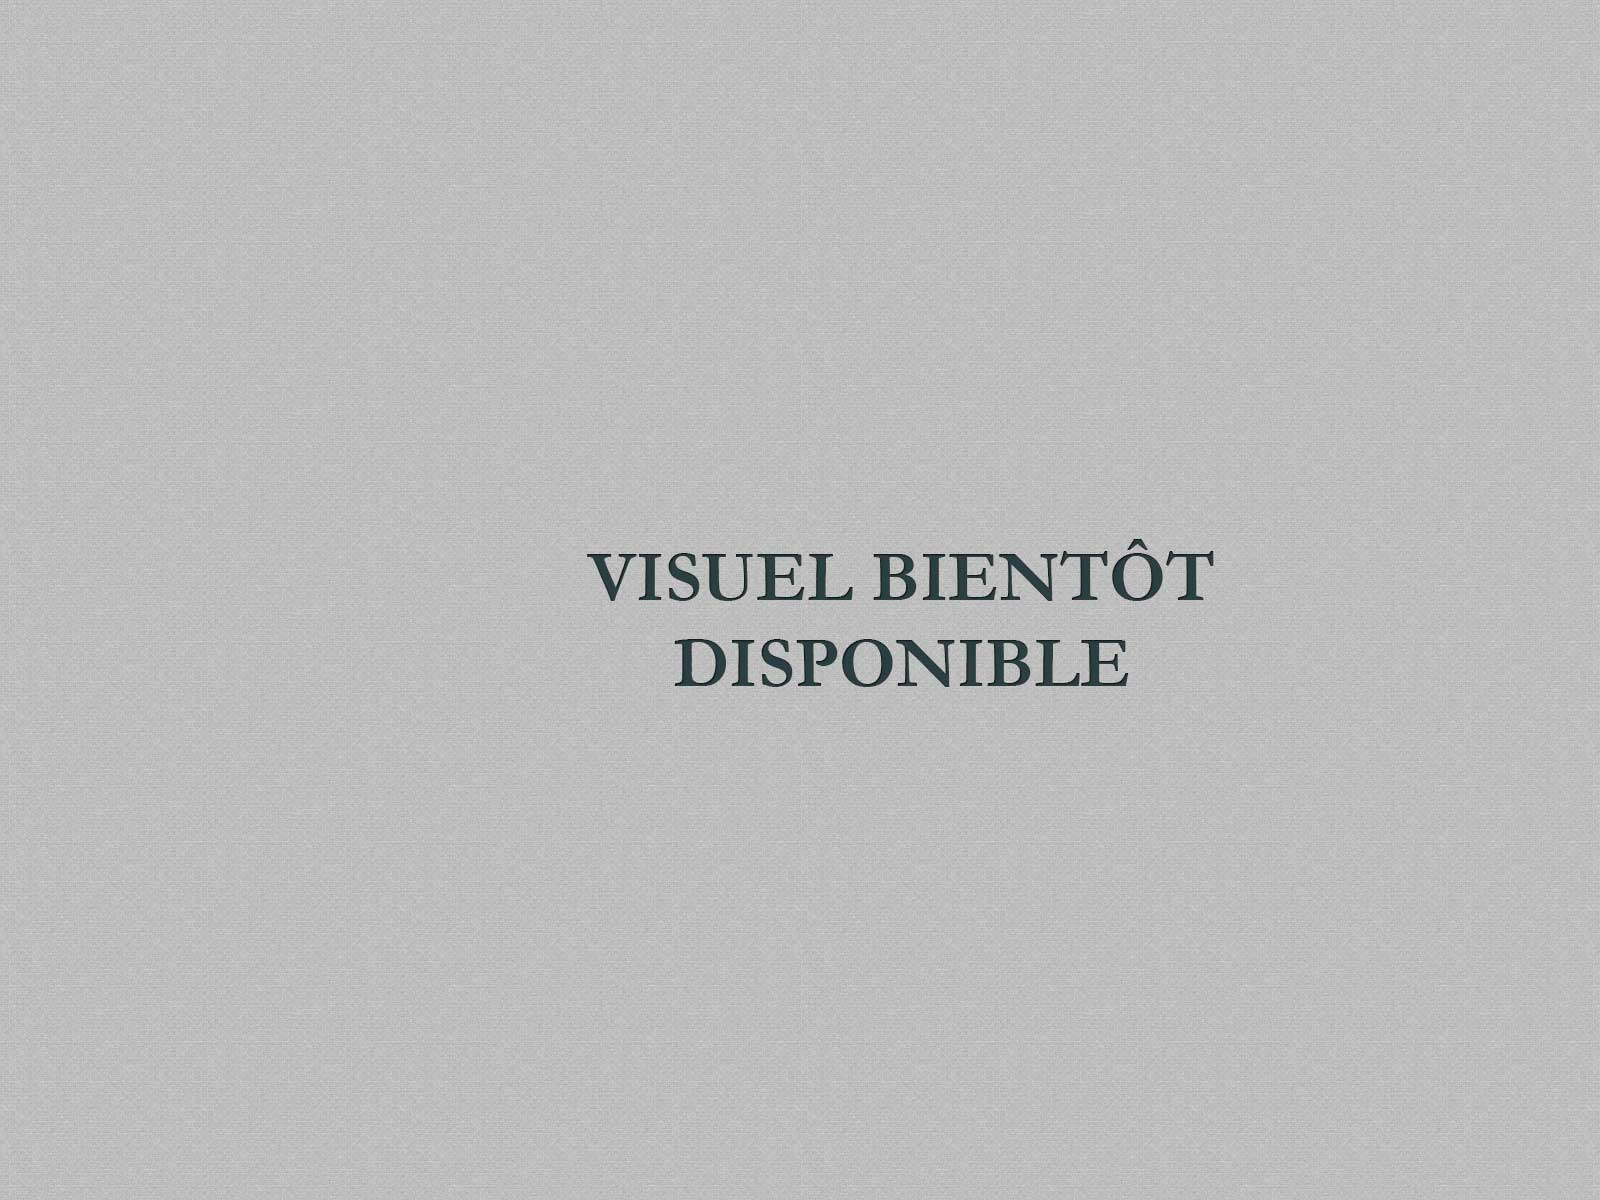
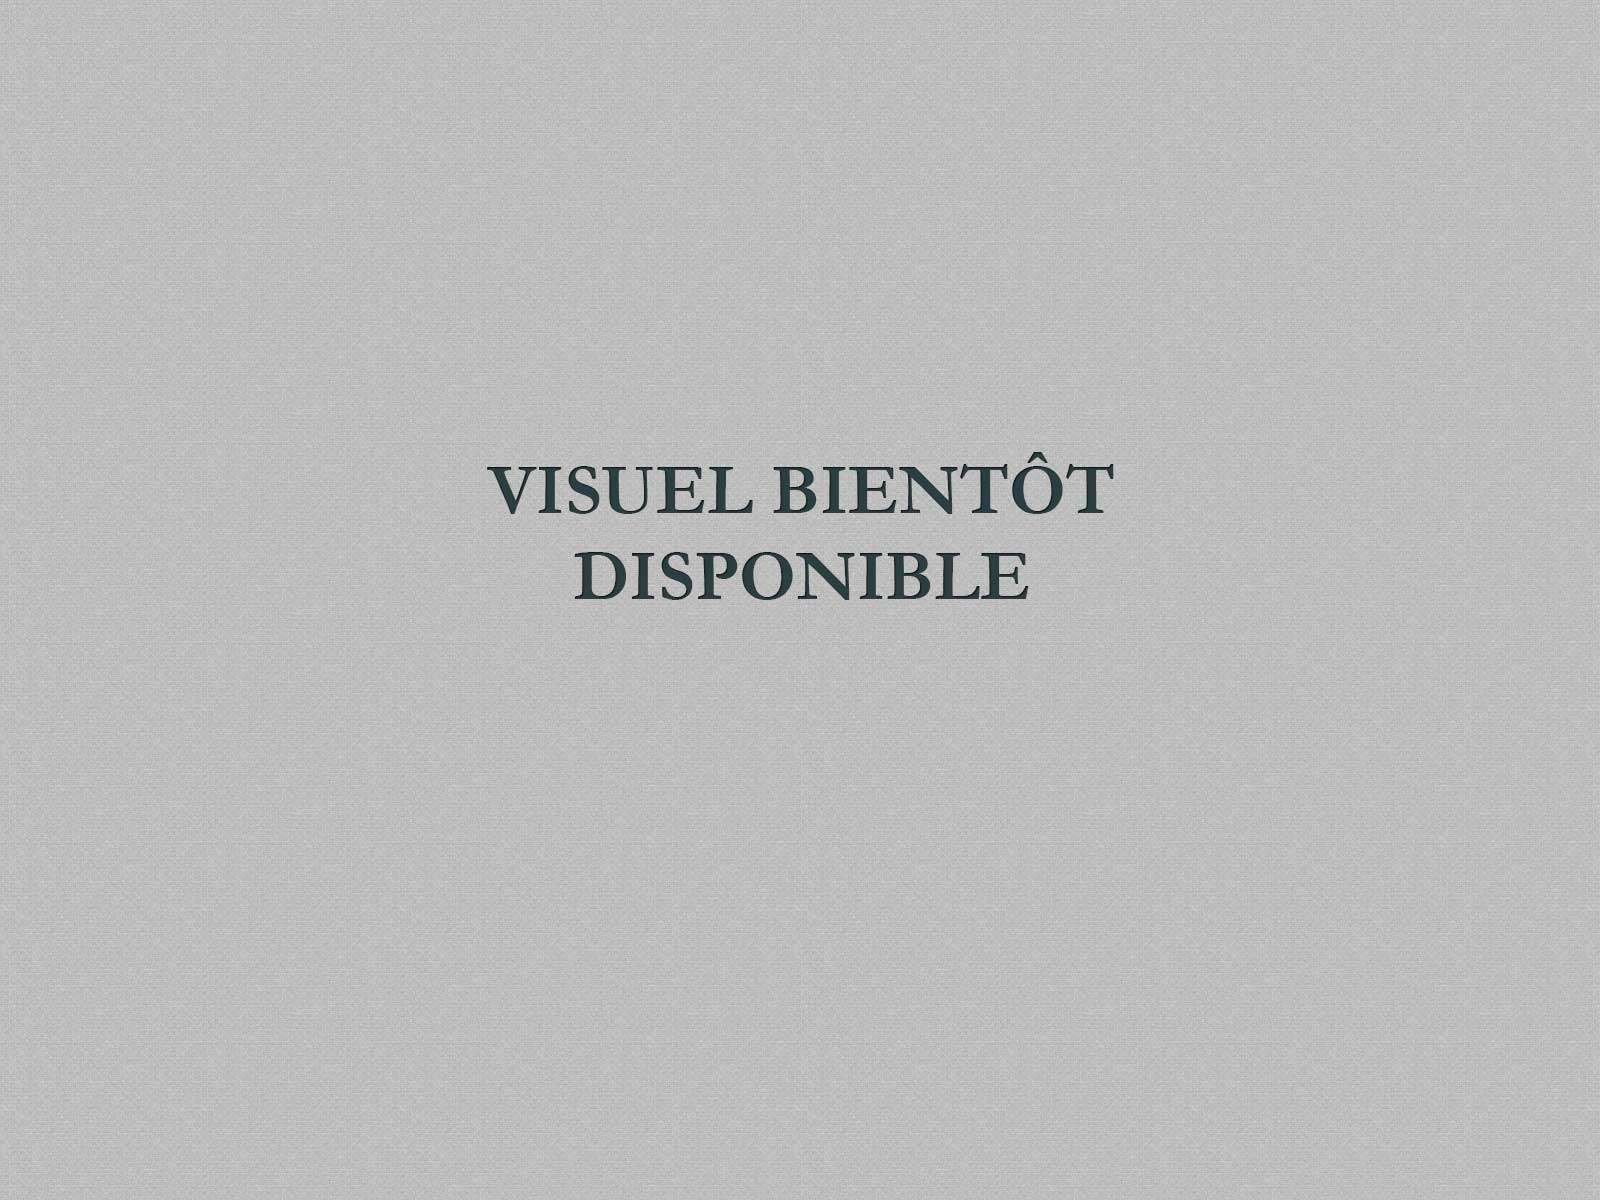
Optimizations
* added non available image placeholder
* added analytics
* switched to minified js
* more compact ribbon

Changed region(s): [[0.3438, 0.4317, 0.75, 0.5858], [0.3125, 0.37, 0.6875, 0.4317]]

diff --git a/js/nav.min.js b/js/nav.min.js
@@ -1,0 +1,1 @@
+!function(){function e(){p={nav:document.querySelector("#nav").offsetTop,exposition:document.querySelector("#exposition").offsetTop,partenariat:document.querySelector("#partenariat").offsetTop,objets:document.querySelector(".objets").offsetTop,infospratiques:document.querySelector("#infospratiques").offsetTop}}function o(){function e(e){if(!e.classList.contains("current")){var o=document.querySelector(".current");o&&o.classList.remove("current")}e.classList.add("current")}var o=void 0!==window.pageYOffset?window.pageYOffset:(document.documentElement||document.body.parentNode||document.body).scrollTop;o<=p.nav?document.body.classList.contains("fix-menu")&&(document.body.classList.remove("fix-menu"),s.header.style.top=0,document.body.style.paddingTop=0):document.body.classList.contains("fix-menu")||(document.body.style.paddingTop=s.header.clientHeight+"px",s.header.style.top=-p.nav+"px",document.body.classList.add("fix-menu")),o>p.infospratiques-window.innerHeight/3?e(s.links[3]):o>p.objets-window.innerHeight/3?e(s.links[2]):o>p.partenariat-window.innerHeight/3?e(s.links[1]):e(s.links[0])}function t(){s.objets.style.height=window.innerHeight+"px",e(),n(),i()}function n(){var e=window.location.hash,o=!1;if(e){e=e.slice(1),e=e.toLowerCase();for(var t=0;t<a.length;t++)a[t].nom.toLowerCase()==e&&(r(t),o=!0)}o||r(0)}function r(e){var o=a[e];s.background.src=o.imgPath,s.ribbon.nom.textContent?(s.ribbon.nom.textContent=o.prenom+" "+o.nom,s.ribbon.type.textContent=o.type):(s.ribbon.nom.innerText=o.prenom+" "+o.nom,s.ribbon.type.innerText=o.type),s.links[2].href="#"+a[e].nom,s.objets.id=a[e].nom,0===e?(s.previous.href="#"+a[a.length-1].nom,s.next.href="#"+a[1].nom):e===a.length-1?(s.previous.href="#"+a[e-1].nom,s.next.href="#"+a[0].nom):(s.previous.href="#"+a[e-1].nom,s.next.href="#"+a[e+1].nom),s.reserver.href=o.formURL}function i(){var e,o=parseInt(s.objets.style.height),t=s.background.height;e=(o-parseInt(s.header.style.top)-t)/2,s.background.style.top=e+"px"}function m(e){e.stopPropagation(),e.preventDefault();var o=window.open(s.reserver.href,"_blank","width: 630px");return o.focus(),!1}var a=[{nom:"AKTAS",prenom:"Gizem",type:"T-Shirt",imgPath:"images/objet-gizem.jpg",formURL:""},{nom:"AUDOU",prenom:"Anais",type:"Siège",imgPath:"images/objet-anais.jpg",formURL:""},{nom:"CARMOIN",prenom:"Emeline",type:"Marionnette",imgPath:"images/objet-emeline.jpg",formURL:""},{nom:"CAVALEIRO",prenom:"Anne-Caroline",type:"Oreiller/Plaid",imgPath:"images/non-dispo.jpg",formURL:""},{nom:"CHADEFFAUD",prenom:"Laetitia",type:"Peluche",imgPath:"images/objet-laetitia.jpg",formURL:""},{nom:"CHEVAUCHE",prenom:"Valentin",type:"Verres",imgPath:"images/objet-valentin.jpg",formURL:""},{nom:"CONSTANT",prenom:"Océane",type:"Assise nounours",imgPath:"images/non-dispo.jpg",formURL:""},{nom:"DAIRE",prenom:"Florine",type:"Rideaux",imgPath:"images/objet-florine.jpg",formURL:""},{nom:"DURAND",prenom:"Marion",type:"Pèle Mele",imgPath:"images/objet-marion.jpg",formURL:""},{nom:"EVENO",prenom:"Flora",type:"Tunique",imgPath:"images/objet-flora.jpg",formURL:""},{nom:"EVERARD",prenom:"Maxime",type:"Chaussons",imgPath:"images/objet-maxime.jpg",formURL:""},{nom:"GAMBIN",prenom:"Gatien",type:"Peluche ",imgPath:"images/objet-gatien.jpg",formURL:""},{nom:"GOMES PINTO BARRETO",prenom:"Jessy",type:"Luminaire",imgPath:"images/non-dispo.jpg",formURL:""},{nom:"GUIDEZ",prenom:"Hélène",type:" Sac femme",imgPath:"images/objet-helene.jpg",formURL:""},{nom:"GUIGNABEL-PICARD",prenom:"Axelle	",type:"Bijoux",imgPath:"images/objet-axelle.jpg",formURL:""},{nom:"LALLIOT",prenom:"Léa	",type:"Bijoux",imgPath:"images/objet-lea.jpg",formURL:""},{nom:"LEFEVRE",prenom:"Camille",type:"Sièges",imgPath:"images/objet-camille.jpg",formURL:""},{nom:"LOPEZ-UROZ",prenom:"Clara",type:"Tablier trousseau",imgPath:"images/objet-clara.jpg",formURL:""},{nom:"LORIN",prenom:"Loïse",type:"Robe",imgPath:"images/non-dispo.jpg",formURL:""},{nom:"MASSARD",prenom:"Aurélie",type:"Oreillers",imgPath:"images/objet-aurelie.jpg",formURL:""},{nom:"MELESSOUSSOU",prenom:"Chloé",type:"Vase",imgPath:"images/objet-chloe.jpg",formURL:""},{nom:"MOSNIER",prenom:"Etienne",type:"Luminaire",imgPath:"images/objet-etienne.jpg",formURL:""},{nom:"NIEL",prenom:"Eva",type:"T-Shirt",imgPath:"images/objet-eva.jpg",formURL:""},{nom:"PALACIOS",prenom:"Emilie",type:"Luminaire ",imgPath:"images/non-dispo.jpg",formURL:""},{nom:"PERRIGOT",prenom:"Camille",type:"Accessoires textiles",imgPath:"images/objet-camille.jpg",formURL:""},{nom:"PICCININ",prenom:"Floyd",type:"Ornement façade",imgPath:"images/objet-floyd.jpg",formURL:""},{nom:"POINTEREAU",prenom:"Juliette",type:"Luminaire",imgPath:"images/objet-juliette.jpg",formURL:""},{nom:"POTHIER",prenom:"Alexia",type:"Peluche",imgPath:"images/objet-alexia.jpg",formURL:""},{nom:"RUIZ",prenom:"Pauline",type:"Tissus",imgPath:"images/non-dispo.jpg",formURL:""},{nom:"SAROT",prenom:"Marine",type:"Sac femme",imgPath:"images/objet-marine.jpg",formURL:""},{nom:"SELLIER",prenom:"Raphaël",type:" Pèle Mele",imgPath:"images/objet-raphael.jpg",formURL:""},{nom:"SEUGE",prenom:"Julie",type:"Bijoux",imgPath:"images/objet-julie.jpg",formURL:""},{nom:"VILALARD",prenom:"Aurore",type:"Robe/col",imgPath:"images/objet-aurore.jpg",formURL:""},{nom:"ZENNOUCHE",prenom:"Charlène",type:"Peluche",imgPath:"images/objet-charlene.jpg",formURL:""}],p={nav:document.querySelector("#nav").offsetTop,exposition:document.querySelector("#exposition").offsetTop,partenariat:document.querySelector("#partenariat").offsetTop,objets:document.querySelector("#objets").offsetTop,infospratiques:document.querySelector("#infospratiques").offsetTop},s={header:document.querySelector("header"),links:document.querySelectorAll("header ul a"),objets:document.querySelector("#objets"),background:document.querySelector("#background"),previous:document.querySelector(".previous"),next:document.querySelector(".next"),ribbon:{nom:document.querySelector(".ribbon h1"),type:document.querySelector(".ribbon p")},reserver:document.querySelector(".reserver")};t(),e(),o(),window.addEventListener("scroll",o),window.addEventListener("resize",t),window.addEventListener("hashchange",n),s.background.addEventListener("load",i),s.reserver.addEventListener("click",m),n()}();

diff --git a/stylesheets/_objets.scss b/stylesheets/_objets.scss
@@ -78,7 +78,7 @@ section.objets {
         position: absolute;
         bottom: 1em;
         text-align: center;
-
+        
         .ribbon {
             display: inline-block;
             background: url('../images/clean_textile.png');
@@ -91,8 +91,8 @@ section.objets {
                content: '';
                position: absolute;
                display: block;
-               bottom: -18px;
-               border: 35px solid $ribbon_bg;
+               bottom: -10px;
+               border: 30px solid $ribbon_bg;
                z-index: -1;
             }
 
@@ -118,21 +118,21 @@ section.objets {
                     position: absolute;
                     display: block;
                     border-style: solid;
-                    bottom: -18px;
+                    bottom: -10px;
                     content: '';
                 }
                 &:before {
                     left: 0;
-                    border-width: 18px 0 0 18px;
+                    border-width: 10px 0 0 18px;
                 }
                 &:after {
                     right: 0;
-                    border-width: 18px 18px 0 0;
+                    border-width: 10px 18px 0 0;
                 }
             }
 
             .stitched {
-                padding: 0.67em 0 0.67em 0;
+                padding: 0.5em 0 0.5em 0;
                 &:before,
                 &:after {
                     content: "";  
@@ -159,26 +159,14 @@ section.objets {
 
             h1 {
                 display: inline-block;
-                padding: 0 0.67em 0 0.67em;
+                margin: 0;
                 font-size: 18pt;
                 text-transform: uppercase;
                 font-weight: bold;
-
-               /*  &:after {
-                    display: block;
-                    content: "";
-                    height: 6px;
-                    width: 90%;
-                    position: relative;
-                    left: 5%;
-                    border-bottom: 1px solid $classy_blue;
-                    border-top: 3px solid $classy_blue;
-                } */
             }
 
             p {
                 margin: 0;
-                padding-top: 0.33em;
                 text-transform: capitalize;
                 font-size: 12pt;
                 font-style: italic;

diff --git a/index.html b/index.html
@@ -64,7 +64,7 @@
         
         <section class="objets" id="objets">
             
-            <img src="images/objet-0.jpg" alt="" id="background">
+            <img src="" alt="" id="background">
 
             <a href="" class="button-bg previous">&larr;</a>
             <a href="" class="button-bg next">&rarr;</a>
@@ -73,8 +73,8 @@
                 <div class="ribbon">
                     <div class="ribbon-content">
                         <div class="stitched">
-                            <h1></h1>
-                            <p></p>
+                            <h1> &nbsp; </h1>
+                            <p> &nbsp; </p>
                         </div>
                     </div>
                 </div>
@@ -150,6 +150,16 @@
 
         <!-- Enable navigation -->
         <script type="text/javascript" src="js/nav.min.js"></script>
+
+        <!-- Enable analytics by Google -->
+        <script>
+            (function(i,s,o,g,r,a,m){i['GoogleAnalyticsObject']=r;i[r]=i[r]||function(){
+            (i[r].q=i[r].q||[]).push(arguments)},i[r].l=1*new Date();a=s.createElement(o),
+            m=s.getElementsByTagName(o)[0];a.async=1;a.src=g;m.parentNode.insertBefore(a,m)
+            })(window,document,'script','//www.google-analytics.com/analytics.js','ga');
+            ga('create', 'UA-46199852-1', 'artsappliques-dreux.fr');
+            ga('send', 'pageview');
+        </script>
 
     </body>
 </html>

diff --git a/js/nav.js b/js/nav.js
@@ -18,8 +18,8 @@
 			{ nom: 'GUIGNABEL-PICARD', prenom:'Axelle	', type: 'Bijoux', imgPath: 'images/objet-axelle.jpg', formURL: '' },
 			{ nom: 'LALLIOT', prenom:'Léa	', type: 'Bijoux', imgPath: 'images/objet-lea.jpg', formURL: '' },
 			{ nom: 'LEFEVRE', prenom:'Camille', type: 'Sièges', imgPath: 'images/objet-camille.jpg', formURL: '' },
-			{ nom: 'LOPEZ-UROZ', prenom:'Clara', type: 'Tablier trousseau', imgPath: 'images/non-dispo.jpg', formURL: '' },
-			{ nom: 'LORIN', prenom:'Loïse', type: 'Robe', imgPath: 'images/objet-loise.jpg', formURL: '' },
+			{ nom: 'LOPEZ-UROZ', prenom:'Clara', type: 'Tablier trousseau', imgPath: 'images/objet-clara.jpg', formURL: '' },
+			{ nom: 'LORIN', prenom:'Loïse', type: 'Robe', imgPath: 'images/non-dispo.jpg', formURL: '' },
 			{ nom: 'MASSARD', prenom:'Aurélie', type: 'Oreillers', imgPath: 'images/objet-aurelie.jpg', formURL: '' },
 			{ nom: 'MELESSOUSSOU', prenom:'Chloé', type: 'Vase', imgPath: 'images/objet-chloe.jpg', formURL: '' },
 			{ nom: 'MOSNIER', prenom:'Etienne', type: 'Luminaire', imgPath: 'images/objet-etienne.jpg', formURL: '' },
@@ -184,6 +184,7 @@
 			imageHeight = nodes.background.height,
 			offset;
 		offset = ( containerHeight - parseInt( nodes.header.style.top ) - imageHeight ) / 2;
+		//offset = ( containerHeight - imageHeight )/2;
 		nodes.background.style.top = offset + 'px';
 	}
 

diff --git a/stylesheets/transmission.css b/stylesheets/transmission.css
@@ -387,8 +387,8 @@ section.objets .legende .ribbon:after {
   content: '';
   position: absolute;
   display: block;
-  bottom: -18px;
-  border: 35px solid #f8f8f8;
+  bottom: -10px;
+  border: 30px solid #f8f8f8;
   z-index: -1;
 }
 
@@ -416,22 +416,22 @@ section.objets .legende .ribbon .ribbon-content:after {
   position: absolute;
   display: block;
   border-style: solid;
-  bottom: -18px;
+  bottom: -10px;
   content: '';
 }
 
 section.objets .legende .ribbon .ribbon-content:before {
   left: 0;
-  border-width: 18px 0 0 18px;
+  border-width: 10px 0 0 18px;
 }
 
 section.objets .legende .ribbon .ribbon-content:after {
   right: 0;
-  border-width: 18px 18px 0 0;
+  border-width: 10px 18px 0 0;
 }
 
 section.objets .legende .ribbon .stitched {
-  padding: 0.67em 0 0.67em 0;
+  padding: 0.5em 0 0.5em 0;
 }
 
 section.objets .legende .ribbon .stitched:before,
@@ -459,7 +459,7 @@ section.objets .legende .ribbon .stitched:after {
 
 section.objets .legende .ribbon h1 {
   display: inline-block;
-  padding: 0 0.67em 0 0.67em;
+  margin: 0;
   font-size: 18pt;
   text-transform: uppercase;
   font-weight: bold;
@@ -467,7 +467,6 @@ section.objets .legende .ribbon h1 {
 
 section.objets .legende .ribbon p {
   margin: 0;
-  padding-top: 0.33em;
   text-transform: capitalize;
   font-size: 12pt;
   font-style: italic;
